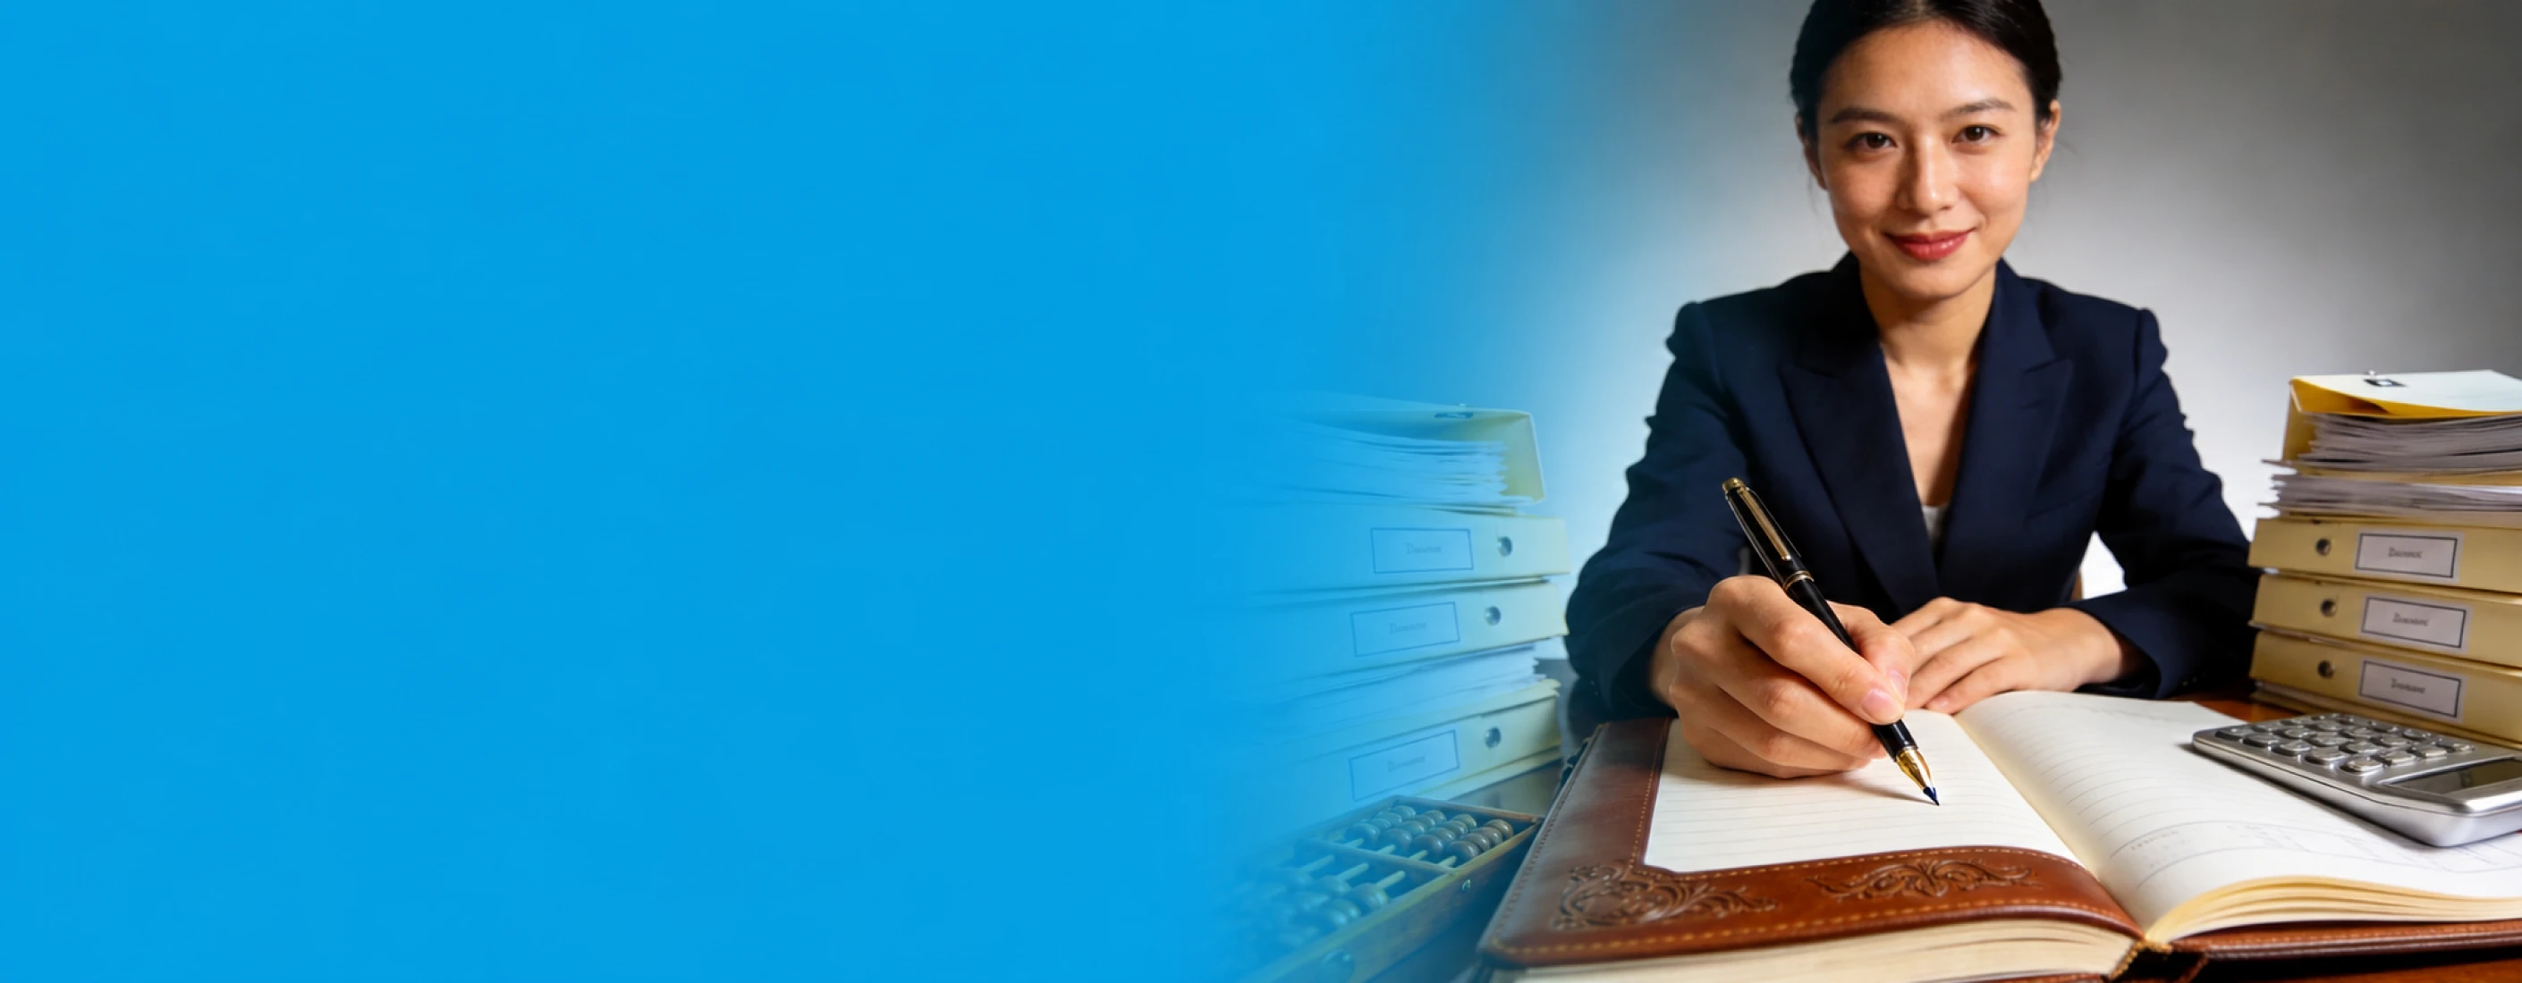
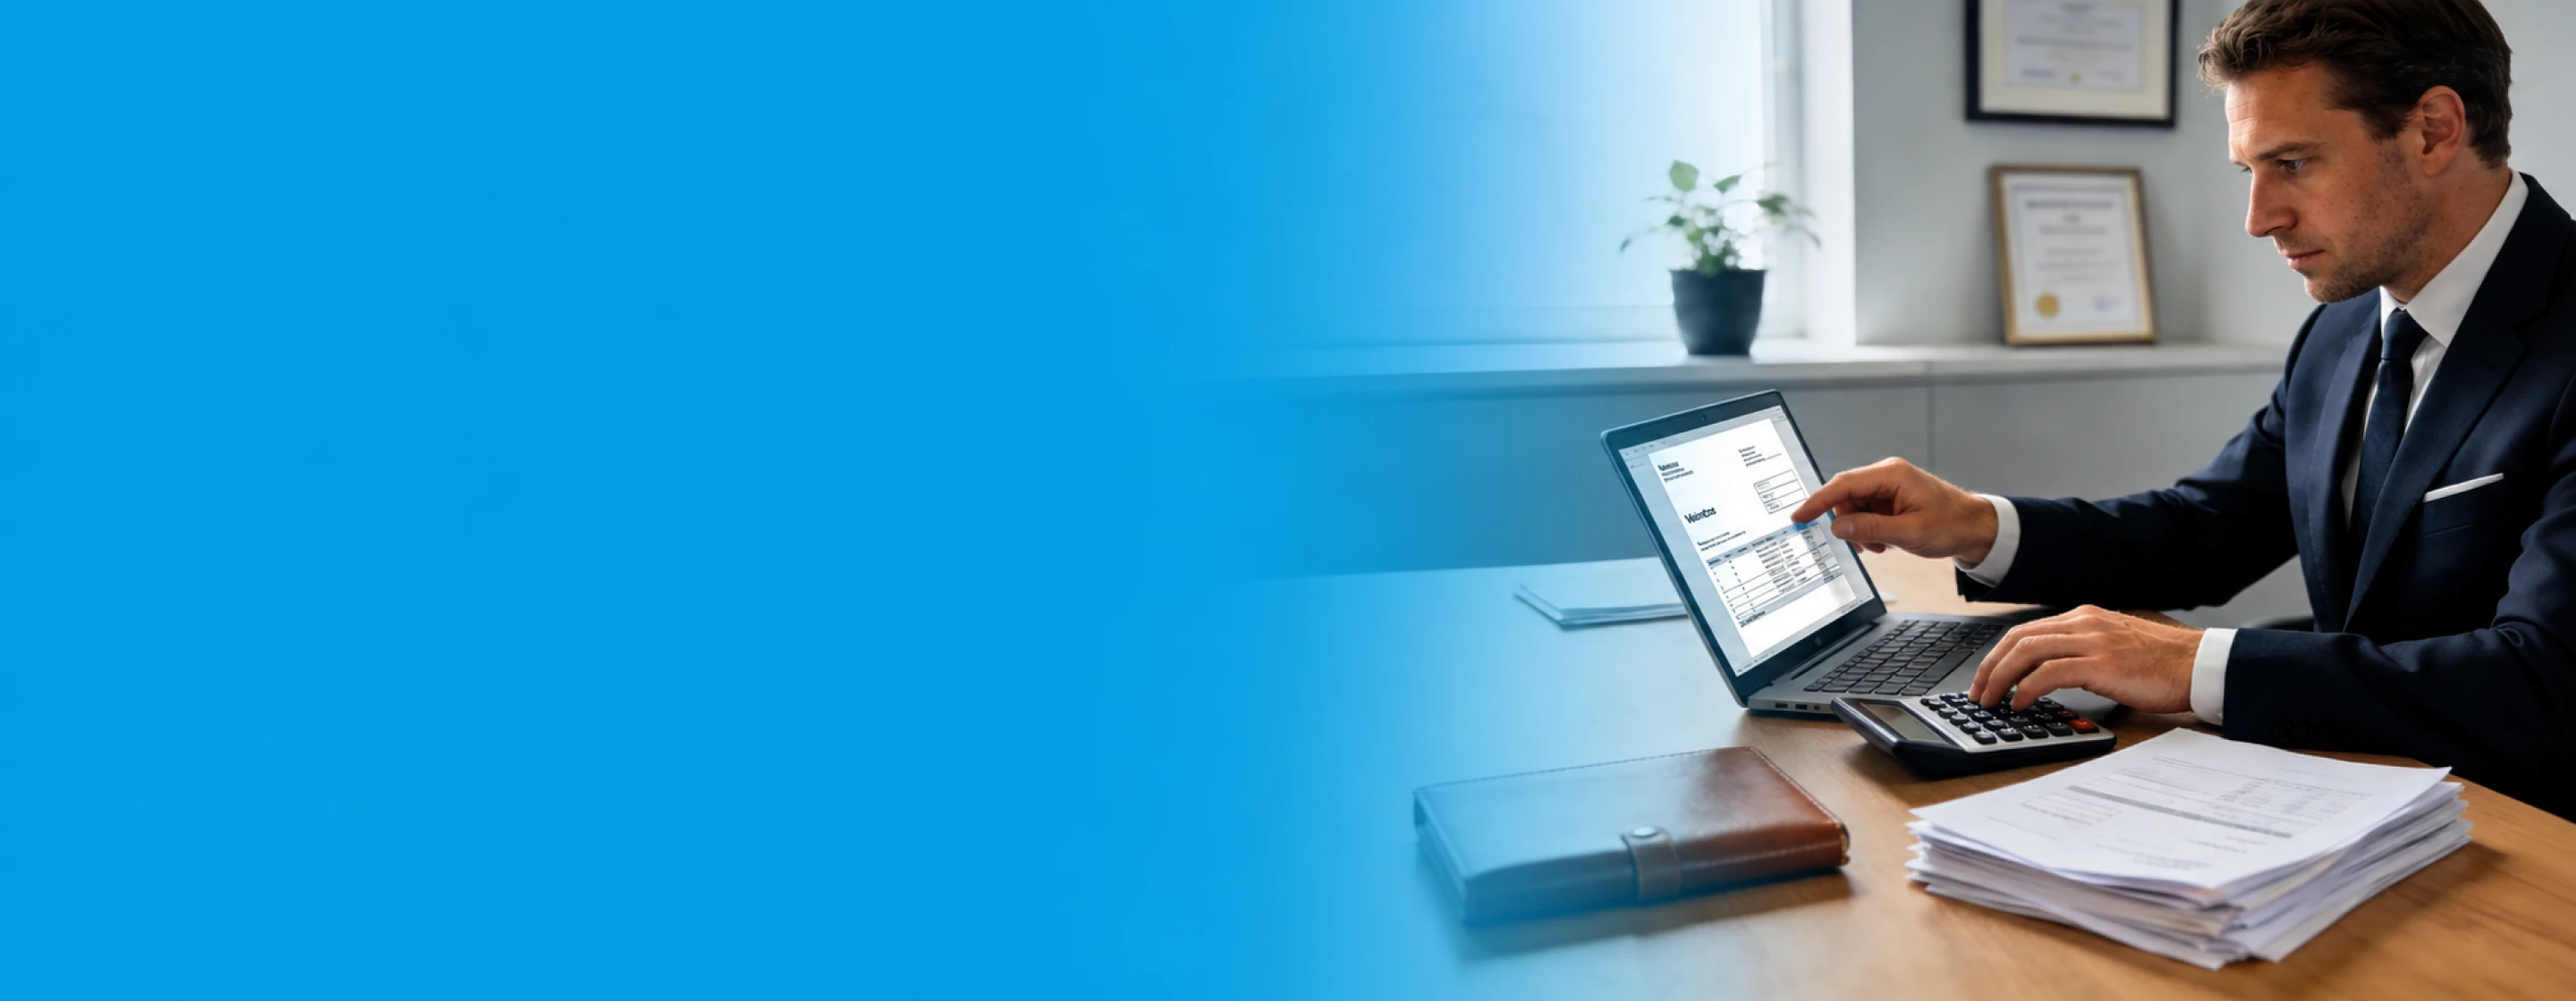
update bookkeeping page

diff --git a/src/app/component/Nearme/BookKeepersNearMe/BookKeepersData.js b/src/app/component/Nearme/BookKeepersNearMe/BookKeepersData.js
@@ -1,41 +1,11 @@
 export const QUESTION_AND_ABOUT_SERVICE = [
     {
         type: "h2",
-        text: "How Localists Works",
-    },
-    {
-        type: "h3",
-        text: "1. Start your search for bookkeepers",
-    },
-    {
-        type: "p",
-        text: "We will help you find the most experienced and reliable bookkeepers in your local area. Just provide us with some small details of the kind of service you require and we’ll match you with qualified professionals who fit the bill.",
-    },
-    {
-        type: "h3",
-        text: "2. Request free quotes from bookkeepers",
-    },
-    {
-        type: "p",
-        text: "Once we know your requirements, we will send you free, no-obligation quotes from the best quality local bookkeepers near you. You don’t need to scroll through endless listings. Simply compare profiles, service offerings, and read reviews to find the right fit  - all at no cost.",
-    },
-    {
-        type: "h3",
-        text: "3. Hire a local bookkeeper",
-    },
-    {
-        type: "p",
-        text: "After reviewing your options, choose the bookkeeper that best fits your needs. Get started on your terms - no pressure, no commitment until you're ready. Once you are confident in your choice, hire your bookkeeper and kick off your project.",
-        notMarginBottom: true,
-    },
-    {
-        type: "h2",
         text: "Find quality local bookkeepers",
-        className: "mt-6 md:mt-9 lg:mt-[70px]"
     },
     {
         type: "p",
-        text: "At Localists, our reliable and qualified bookkeeping professionals can keep your financial affairs in perfect order. Whether you’re a business owner or an individual, there are huge benefits to using <span style=\"background-color:#00FFFF;\">accountancy and bookkeeping services</span>. You don’t have to stress over tax returns, payroll, invoices, or bills. The best part? Our service is completely free.",
+        text: "At Localists, our reliable and qualified bookkeeping professionals can keep your financial affairs in perfect order. Whether you’re a business owner or an individual, there are huge benefits to using accountancy and bookkeeping services. You don’t have to stress over tax returns, payroll, invoices, or bills. The best part? Our service is completely free.",
     },
     {
         type: "p",
@@ -171,7 +141,7 @@ export const QUESTION_AND_ABOUT_SERVICE = [
     },
     {
         type: "p",
-        text: "However, several factors can influence the cost, including how complex your finances are, how often you require support, and whether you are employing <span style=\"background-color:#00FFFF;\">online bookkeeping services</span>. For instance, sole trader bookkeeping is generally more straightforward and cost-effective, as it typically involves fewer transactions and simpler reporting, compared to larger businesses with payroll, VAT, or inventory to manage.",
+        text: "However, several factors can influence the cost, including how complex your finances are, how often you require support, and whether you are employing online bookkeeping services. For instance, sole trader bookkeeping is generally more straightforward and cost-effective, as it typically involves fewer transactions and simpler reporting, compared to larger businesses with payroll, VAT, or inventory to manage.",
     },
     {
         type: "p",
@@ -209,7 +179,7 @@ export const FREQUENTLY_DATA_BOOKKEEPERS = [
         description: `
       Simple answer - yes, especially for business or personal finances. Whether you want to track income, manage accounts, or handle accurate financial records, you will need expert help. Professional bookkeepers ensure accurate financial records, help with cash flow monitoring, and keep you compliant with HMRC regulations. This accuracy helps prevent costly errors, avoid tax penalties, and allows you to focus on other core growth activities.
       <br/><br/>
-      If you are a business owner, hiring <span style="background-color:#00FFFF;">a bookkeeper</span> is an investment in your business’s future, especially given the complexity of managing accounts and financial data. Many sole traders make the mistake of trying to do everything themselves, and end up having a mountain of paperwork and minimal time away from the business. A bookkeeper will relieve you of this excess paperwork, and allow you to fully commit to growing your business.
+      If you are a business owner, hiring a bookkeeper is an investment in your business’s future, especially given the complexity of managing accounts and financial data. Many sole traders make the mistake of trying to do everything themselves, and end up having a mountain of paperwork and minimal time away from the business. A bookkeeper will relieve you of this excess paperwork, and allow you to fully commit to growing your business.
       `,
     },
     {
@@ -394,7 +364,7 @@ export const BOOKKEEPERS_FEEDBACK = [
     },
     {
         id: 3,
-        text: "I’ve been working with Priya, a professional freelance bookkeeper, for over 4 months now, and all I can say is amazing! She’s organised, efficient, and genuinely cares about keeping my finances in order. Her attention to detail and clear communication have made a huge difference in how I manage my business accounts.",
+        text: "I’ve been working with James, a professional freelance bookkeeper, for over 4 months now, and all I can say is amazing! She’s organised, efficient, and genuinely cares about keeping my finances in order. Her attention to detail and clear communication have made a huge difference in how I manage my business accounts.",
         name: "Anita N",
     },
     {
